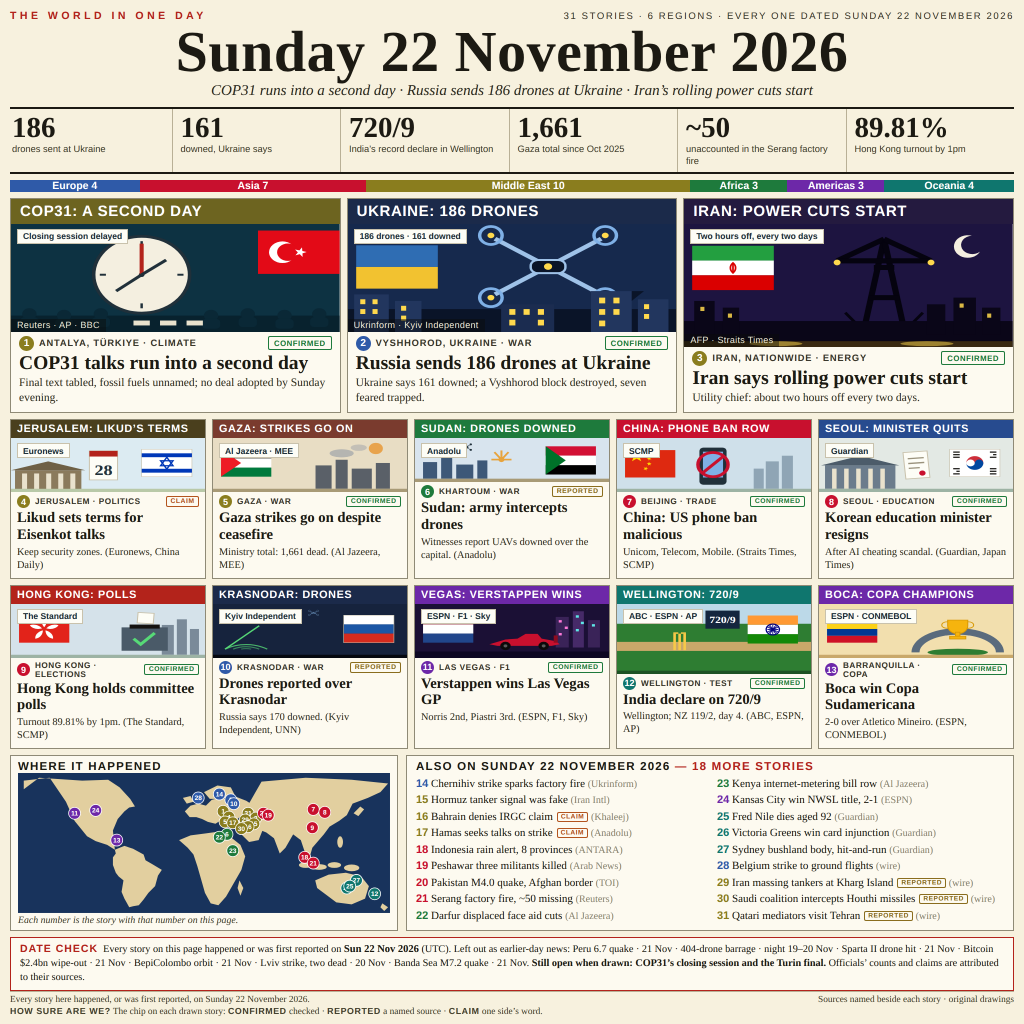
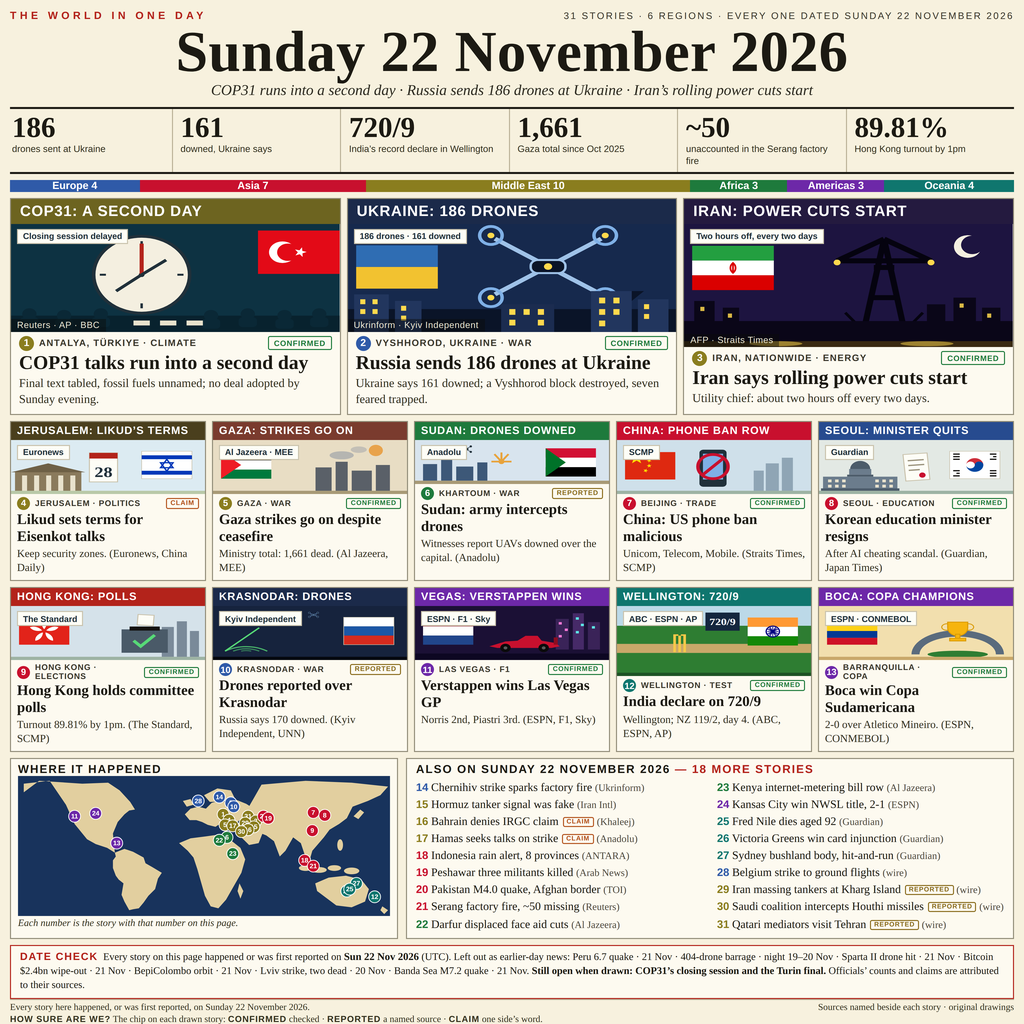
Clarity pass: 4x render + Lanczos downscale, darker small print, font bumps; panel 8 gets the domed National Assembly

diff --git a/index.html b/index.html
@@ -21,7 +21,7 @@
   .stat { flex:1; padding:4px 8px 4px; border-left:1px solid #b9b096; }
   .stat:first-child { border-left:none; padding-left:2px; }
   .stat .n { font-size:29px; font-weight:bold; line-height:1.05; }
-  .stat .d { font-family: Arial, Helvetica, sans-serif; font-size:9.3px; color:#45422f; margin-top:1px; line-height:1.25; }
+  .stat .d { font-family: Arial, Helvetica, sans-serif; font-size:9.3px; color:#35321e; margin-top:1px; line-height:1.25; }
   /* region bar */
   .regions { display:flex; margin-top:6px; height:20px; font-family: Arial, Helvetica, sans-serif; font-size:10.5px; font-weight:bold; color:#fff; }
   .regions div { display:flex; align-items:center; justify-content:center; }
@@ -42,7 +42,7 @@
   .cl { color:#b3541e; border-color:#b3541e; }
   .rp { color:#8a6d1e; border-color:#8a6d1e; }
   .hero h2 { font-size:19.5px; line-height:1.12; padding:2px 8px 0; font-weight:bold; }
-  .hero .dek { font-size:11.5px; line-height:1.3; padding:2px 8px 6px; color:#33301f; }
+  .hero .dek { font-size:12px; line-height:1.3; padding:2px 8px 6px; color:#33301f; }
   .smalls { display:flex; gap:6px; margin-top:6px; }
   .small { flex:1; border:1.5px solid #8f8a76; background:#fdfaf0; display:flex; flex-direction:column; overflow:hidden; }
   .small .band { font-size:10.8px; padding:3px 6px; }
@@ -51,26 +51,26 @@
   .small .nbadge { width:13px; height:13px; font-size:9px; }
   .small .chip { font-size:6.8px; padding:1px 3.5px; }
   .small h3 { font-size:14.6px; line-height:1.16; padding:2px 6px 0; font-weight:bold; }
-  .small .dek { font-size:10.3px; line-height:1.3; padding:1.5px 6px 5px; color:#33301f; }
+  .small .dek { font-size:10.8px; line-height:1.3; padding:1.5px 6px 5px; color:#33301f; }
   /* bottom */
   .bottom { display:flex; gap:8px; margin-top:6px; }
   .mapbox { width:388px; flex:none; border:1.5px solid #8f8a76; background:#fdfaf0; padding:5px 7px 4px; }
   .mapbox h4, .alsobox h4 { font-family: Arial, Helvetica, sans-serif; font-size:11.5px; letter-spacing:1.2px; font-weight:bold; }
-  .mapbox .cap { font-size:9.8px; font-style:italic; color:#45422f; margin-top:2px; }
+  .mapbox .cap { font-size:9.8px; font-style:italic; color:#35321e; margin-top:2px; }
   .alsobox { flex:1; border:1.5px solid #8f8a76; background:#fdfaf0; padding:5px 9px 4px; }
   .alsobox h4 span { color:#b3231b; }
   .alsocols { display:flex; gap:14px; margin-top:3px; }
   .alsocols ul { list-style:none; flex:1; }
-  .alsocols li { font-size:11px; line-height:1.3; padding:1.1px 0; white-space:nowrap; }
+  .alsocols li { font-size:11.5px; line-height:1.3; padding:1.1px 0; white-space:nowrap; }
   .alsocols .no { font-family: Arial, Helvetica, sans-serif; font-weight:bold; font-size:11px; }
-  .alsocols .src2 { color:#8a8570; font-size:10px; }
+  .alsocols .src2 { color:#4f4a3f; font-size:10px; }
   .alsocols .chip { margin-left:4px; font-size:6.6px; padding:.5px 3px; vertical-align:1.5px; }
   /* date check + footer */
   .datecheck { border:1.6px solid #b3231b; margin-top:6px; padding:4px 9px 5px; font-size:10.2px; line-height:1.36; background:#fdfaf0; }
   .datecheck b { color:#b3231b; font-family: Arial, Helvetica, sans-serif; font-size:10.5px; letter-spacing:1px; }
   .datecheck .open { font-weight:bold; }
-  .footer { margin-top:auto; border-top:1px solid #b9b096; padding-top:3px; display:flex; justify-content:space-between; font-size:9.3px; color:#45422f; }
-  .legend { font-size:9.3px; color:#45422f; margin-top:1px; }
+  .footer { margin-top:auto; border-top:1px solid #b9b096; padding-top:3px; display:flex; justify-content:space-between; font-size:9.3px; color:#35321e; }
+  .legend { font-size:9.3px; color:#35321e; margin-top:1px; }
   .legend b { font-family: Arial, Helvetica, sans-serif; font-size:8.8px; letter-spacing:.6px; }
 </style>
 </head>
@@ -359,9 +359,12 @@
       <div class="art" style="height:54px;">
         <svg viewBox="0 0 193 67" preserveAspectRatio="none">
           <rect width="193" height="67" fill="#e3e9e4"/>
-          <rect x="6" y="34" width="70" height="29" fill="#6b7c8c"/>
-          <polygon points="2,34 80,34 41,22" fill="#4c5c6a"/>
-          <g fill="#e9e2cd"><rect x="13" y="38" width="4.5" height="25"/><rect x="25" y="38" width="4.5" height="25"/><rect x="37" y="38" width="4.5" height="25"/><rect x="49" y="38" width="4.5" height="25"/><rect x="61" y="38" width="4.5" height="25"/></g>
+          <path d="M31 36 A10 10 0 0 1 51 36 Z" fill="#4c5c6a"/>
+          <rect x="30" y="36" width="22" height="7" fill="#6b7c8c"/>
+          <rect x="28" y="43" width="26" height="2.5" fill="#4c5c6a"/>
+          <rect x="4" y="45.5" width="74" height="17.5" fill="#6b7c8c"/>
+          <g fill="#e9e2cd"><rect x="9" y="49" width="3.5" height="3.5"/><rect x="16" y="49" width="3.5" height="3.5"/><rect x="23" y="49" width="3.5" height="3.5"/><rect x="56" y="49" width="3.5" height="3.5"/><rect x="63" y="49" width="3.5" height="3.5"/><rect x="70" y="49" width="3.5" height="3.5"/><rect x="9" y="55.5" width="3.5" height="3.5"/><rect x="16" y="55.5" width="3.5" height="3.5"/><rect x="23" y="55.5" width="3.5" height="3.5"/><rect x="56" y="55.5" width="3.5" height="3.5"/><rect x="63" y="55.5" width="3.5" height="3.5"/><rect x="70" y="55.5" width="3.5" height="3.5"/></g>
+          <rect x="2" y="60" width="78" height="3" fill="#4c5c6a"/>
           <g transform="rotate(-5 97 34)">
             <rect x="85" y="17" width="24" height="33" fill="#fdfdf6" stroke="#c9c2ac"/>
             <line x1="89" y1="25" x2="105" y2="25" stroke="#9a927c" stroke-width="1.6"/>

diff --git a/downscale.py b/downscale.py
@@ -1,0 +1,21 @@
+#!/usr/bin/env python3
+"""Downscale the 4x render with Pillow's Lanczos filter.
+
+Usage: downscale.py <src-4096.png> <out-1024.png> <out-300.png>
+Deterministic: the same input bytes always produce the same outputs.
+"""
+import sys
+
+from PIL import Image
+
+
+def main() -> None:
+    src, out1024, out300 = sys.argv[1], sys.argv[2], sys.argv[3]
+    im = Image.open(src)
+    im.resize((1024, 1024), Image.LANCZOS).save(out1024, optimize=True)
+    im.resize((300, 300), Image.LANCZOS).save(out300, optimize=True)
+    print("downscaled", src, "->", out1024, "and", out300)
+
+
+if __name__ == "__main__":
+    main()
